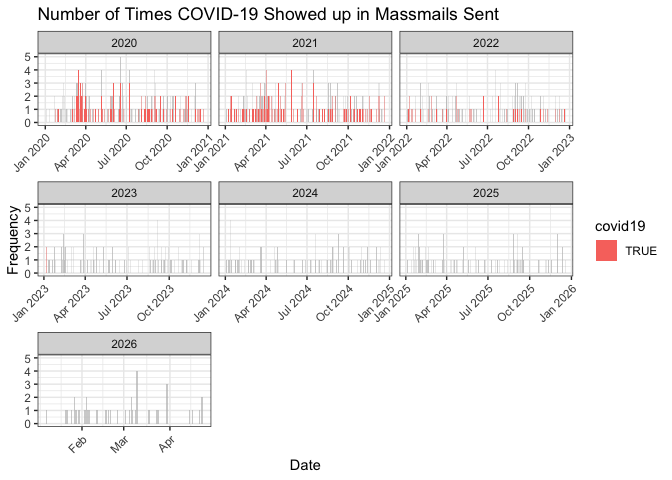
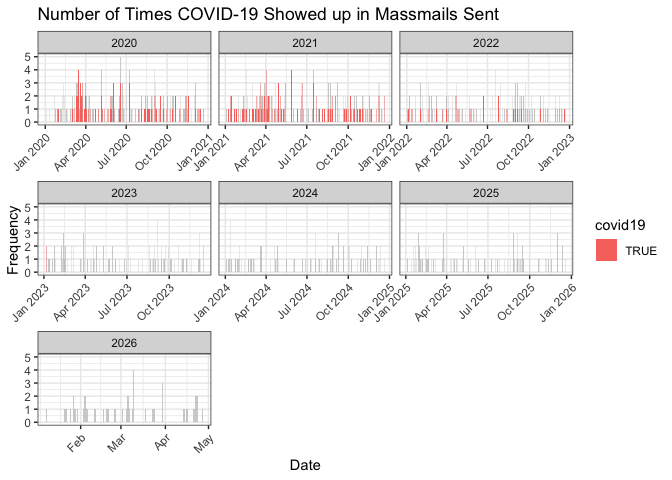
Re-build README.Rmd and Graphs

diff --git a/README.md b/README.md
@@ -17,7 +17,7 @@ The archive may be viewed here:
 
 <https://massmail.illinois.edu/massmailArchive>
 
-Data has **1959** observations and **7** variables:
+Data has **1960** observations and **7** variables:
 
 - `datetime`: Date and time when the email was sent in the form of
   `YYYY-MM-DD HMS` with either CDT or CST.
@@ -210,15 +210,15 @@ head(most_popular_words, 10) %>%
 
 | word        | freq |
 |:------------|-----:|
-| university  | 2642 |
+| university  | 2644 |
 | students    | 2181 |
 | campus      | 1919 |
 | illinois    | 1843 |
 | student     | 1383 |
-| faculty     | 1225 |
+| faculty     | 1230 |
 | health      | 1171 |
 | community   | 1136 |
-| information | 1100 |
+| information | 1101 |
 | staff       | 1076 |
 
 #### Wordcloud